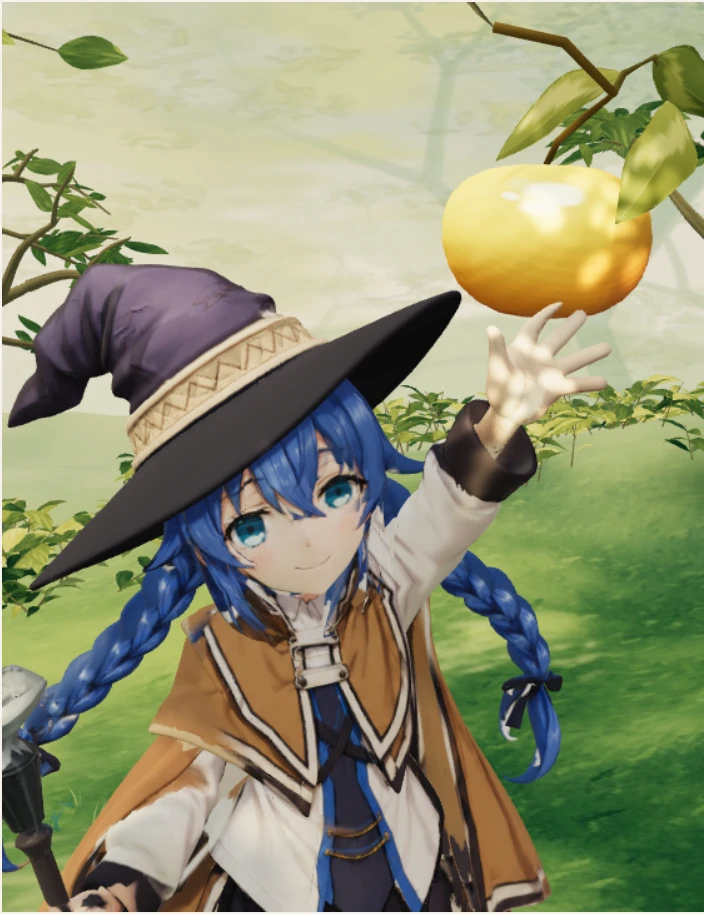
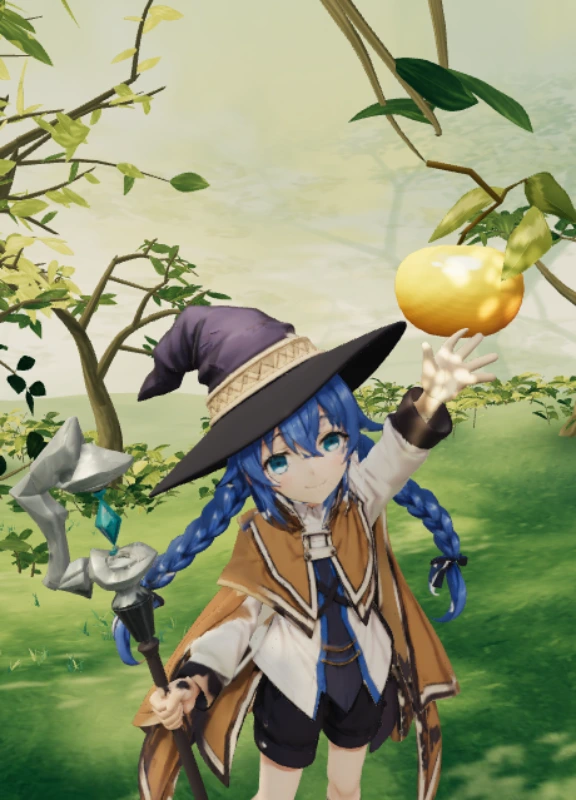
fix(gallery): preserve corridor year and reframe orchard on phones

diff --git a/tests/e2e/painted-world-hanging.spec.ts b/tests/e2e/painted-world-hanging.spec.ts
@@ -148,3 +148,19 @@ test('without WebGL, the selected year still links to its room and mobile views'
     image.complete && image.naturalWidth > 0 ? image.currentSrc : '')).toMatch(/cosplayer\/.*mobile\.webp$/)
   expect(models).toEqual([])
 })
+
+test('the corridor follows the year of the room restored by browser history', async ({ page }) => {
+  await page.route('**/painted-worlds/renderer.js', route => route.abort())
+  await page.goto(documentPath + '#2024-23')
+  await expect(page.locator('body')).toHaveAttribute('data-world', '2024-23')
+  await page.locator('#back').click()
+  await page.locator('[data-year="2025"]').click()
+  await expect(page.locator('[data-year="2025"]')).toHaveAttribute('aria-pressed', 'true')
+
+  await page.goBack()
+  await expect(page.locator('body')).toHaveAttribute('data-world', '2024-23')
+  await page.locator('#back').click()
+  await expect(page.locator('[data-year="2024"]')).toHaveAttribute('aria-pressed', 'true')
+  await expect(page.locator('[data-door="2024-23"]')).toBeVisible()
+  await expect(page.locator('[data-door="cosplayer"]')).toHaveCount(0)
+})

diff --git a/public/painted-worlds/main.js b/public/painted-worlds/main.js
@@ -90,7 +90,7 @@ async function mount() {
       return data.hallView[mobile.matches ? 'mobile' : 'desktop']
     }
     const v = data.rooms[room].views[station]
-    return { ...v, fov: mobile.matches ? v.mobileFov : v.fov }
+    return mobile.matches ? { ...v, target: v.mobileTarget ?? v.target, fov: v.mobileFov } : v
   }
 
   const yearWorks = () => registry.filter(work => work.year === year)
@@ -266,6 +266,11 @@ async function mount() {
     engine?.clear()
     delete shell.dataset.hangingYear
     room = id
+    const roomYear = works.get(room)?.year
+    if (roomYear !== undefined && roomYear !== year) {
+      year = roomYear
+      doors.replaceChildren()
+    }
     station = 0
     closeup = live = false
     void showScene()
